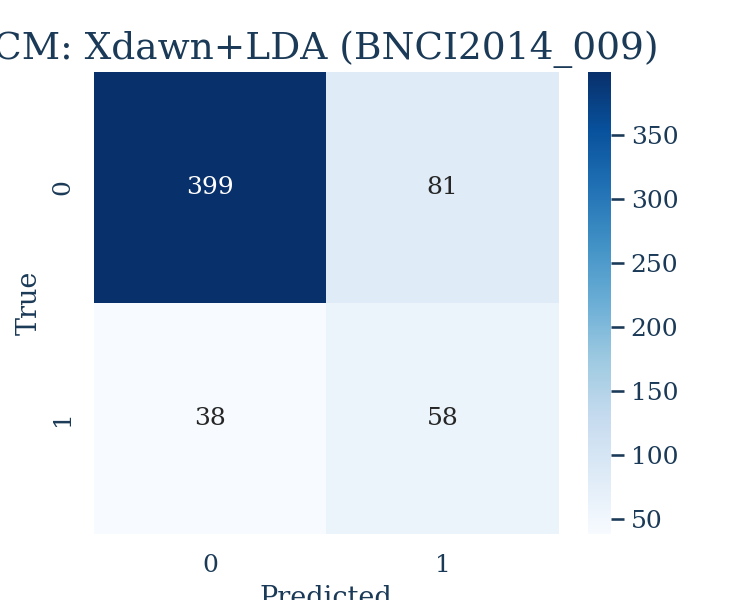
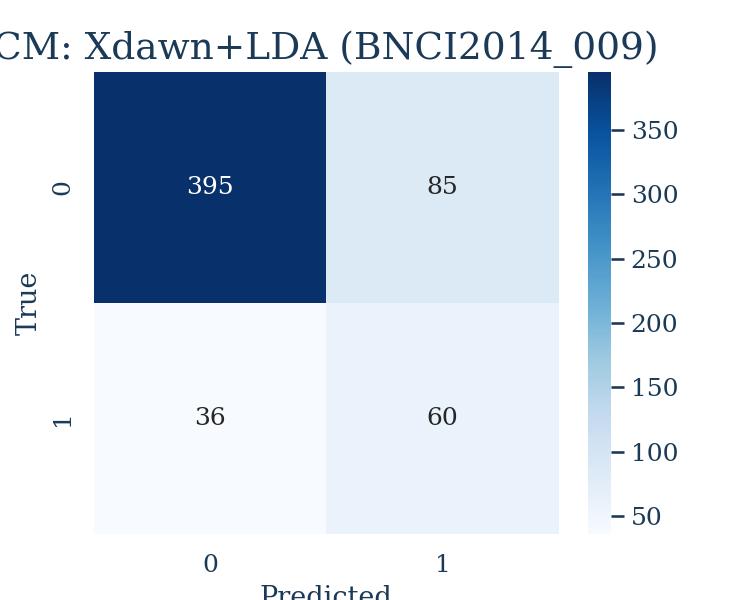
Fix EEGNet integration, correct ensemble math to row/column cross, fix KFold contiguity, fix ITR timing to 2.1, explicitly require data/ directory

diff --git a/src/evaluate.py b/src/evaluate.py
@@ -3,13 +3,13 @@ import numpy as np
 import pandas as pd
 import matplotlib.pyplot as plt
 import seaborn as sns
-from sklearn.model_selection import GroupKFold
+from sklearn.model_selection import KFold
 from sklearn.metrics import accuracy_score, recall_score, precision_score, f1_score, confusion_matrix
 from mne.preprocessing import Xdawn
 
 # Local Imports (Zero-Leakage & Modular)
 from preprocess import get_clean_data, apply_bad_channel_interpolation, apply_spatial_ica
-from models import EEGNet, get_lda_pipeline, get_svm_pipeline
+from models import EEGNet, get_lda_pipeline, get_svm_pipeline, get_eegnet_pipeline
 
 def get_character_prediction(probs, y_test, flash_per_char=12):
     """
@@ -19,18 +19,27 @@ def get_character_prediction(probs, y_test, flash_per_char=12):
     n_chars = len(probs) // flash_per_char
     correct_chars = 0
     for i in range(n_chars):
-        # Extract 12 flashes for this character
         c_probs = probs[i*flash_per_char : (i+1)*flash_per_char]
         c_labels = y_test[i*flash_per_char : (i+1)*flash_per_char]
         
-        # Predicted: Flash index with max target probability
-        pred_idx = np.argmax(c_probs)
-        # Truth: Flash index with label 1 (Target)
-        true_idx = np.where(c_labels == 1)[0]
+        # P300 Speller grids flash 6 rows and 6 columns. 
+        # The first 6 flashes are usually one dimension (e.g. rows), the last 6 are the other (columns).
+        row_probs = c_probs[:6]
+        col_probs = c_probs[6:]
         
-        if len(true_idx) > 0 and pred_idx == true_idx[0]:
-            correct_chars += 1
-            
+        row_labels = c_labels[:6]
+        col_labels = c_labels[6:]
+        
+        pred_row = np.argmax(row_probs)
+        pred_col = np.argmax(col_probs)
+        
+        true_rows = np.where(row_labels == 1)[0]
+        true_cols = np.where(col_labels == 1)[0]
+        
+        if len(true_rows) > 0 and len(true_cols) > 0:
+            if pred_row == true_rows[0] and pred_col == true_cols[0]:
+                correct_chars += 1
+                
     return correct_chars / n_chars if n_chars > 0 else 0
 
 def get_symbol_itr(n, acc, dur=2.1):
@@ -52,15 +61,15 @@ def run_benchmarking():
         for subj in range(1, 2): # Subject 1 as benchmark
             print(f"\n--- [ {ds_name} ] Subject {subj} ---")
             epochs, X, y = get_clean_data(ds_name, subj)
-            # GroupKFold (Bug #1 Fix): Groups flashes by character cycle (12 flashes)
-            groups = np.arange(len(epochs)) // 12
-            skf = GroupKFold(n_splits=5)
+            # KFold (Bug #3 Fix): keeps the strict chronological blocks of 12 intact, no shuffling.
+            skf = KFold(n_splits=5, shuffle=False)
             
             # --- Classical Models Comparison ---
             models_list = [
                 ("LDA", get_lda_pipeline()),
                 ("SVM", get_svm_pipeline()),
-                ("Xdawn+LDA", get_lda_pipeline()) # Xdawn features handled in CV
+                ("Xdawn+LDA", get_lda_pipeline()), # Xdawn features handled in CV
+                ("EEGNet", get_eegnet_pipeline())
             ]
 
             for name, clf in models_list:
@@ -69,7 +78,7 @@ def run_benchmarking():
                 subject_probs = []
                 subject_y = []
 
-                for train_idx, test_idx in skf.split(X, y, groups=groups):
+                for train_idx, test_idx in skf.split(X, y):
                     # Data Slicing
                     e_tr, e_te = epochs[train_idx].copy(), epochs[test_idx].copy()
                     y_tr, y_te = y[train_idx], y[test_idx]
@@ -84,6 +93,16 @@ def run_benchmarking():
                         xd = Xdawn(n_components=2, correct_overlap=False, reg=0.1).fit(e_tr, y_tr)
                         X_tr = xd.transform(e_tr).reshape(len(e_tr), -1)
                         X_te = xd.transform(e_te).reshape(len(e_te), -1)
+                    elif "EEGNet" in name:
+                        # EEGNet requires (N, 1, C, T) shape
+                        X_tr_data = e_tr.get_data()
+                        X_te_data = e_te.get_data()
+                        mu = np.mean(X_tr_data)
+                        sd = np.std(X_tr_data)
+                        X_tr = ((X_tr_data - mu) / sd)[:, np.newaxis, :, :].astype(np.float32)
+                        X_te = ((X_te_data - mu) / sd)[:, np.newaxis, :, :].astype(np.float32)
+                        y_tr = y_tr.astype(np.int64)
+                        y_te = y_te.astype(np.int64)
                     else:
                         X_tr = e_tr.get_data().reshape(len(e_tr), -1)
                         X_te = e_te.get_data().reshape(len(e_te), -1)

diff --git a/src/ensemble.py b/src/ensemble.py
@@ -4,7 +4,7 @@ import warnings
 from sklearn.svm import SVC
 from sklearn.preprocessing import StandardScaler
 from sklearn.pipeline import Pipeline
-from sklearn.model_selection import GroupKFold
+from sklearn.model_selection import KFold
 
 # Local Imports (Zero-Leakage & Modular)
 from preprocess import get_clean_data, apply_bad_channel_interpolation, apply_spatial_ica
@@ -16,7 +16,7 @@ mne.set_log_level('WARNING')
 def run_ensemble_benchmark():
     """
     Final Ensemble Benchmark: 
-    Uses 5-fold GroupKFold to maintain block contiguity (Bug #1 fix).
+    Uses 5-fold KFold to maintain block contiguity (Bug #3 fix).
     Full fold-specific preprocessing (Bad Channels + ICA).
     """
     ds_name = "BNCI2014_009"
@@ -25,9 +25,8 @@ def run_ensemble_benchmark():
     
     epochs, X, y = get_clean_data(ds_name, subj)
     
-    # Bug #1 Fix: Group by Character Cycle (12 flashes)
-    groups = np.arange(len(epochs)) // 12
-    skf = GroupKFold(n_splits=5)
+    # Bug #3 Fix: KFold (shuffle=False) keeps chronological blocks intact automatically
+    skf = KFold(n_splits=5, shuffle=False)
     
     # Model: Standard RBF-SVM Pipeline
     clf = Pipeline([
@@ -38,7 +37,7 @@ def run_ensemble_benchmark():
     subject_probs = []
     subject_y = []
 
-    for fold, (train_idx, test_idx) in enumerate(skf.split(X, y, groups=groups)):
+    for fold, (train_idx, test_idx) in enumerate(skf.split(X, y)):
         print(f"  Fold {fold+1}/5...")
         # Data Slicing
         e_tr, e_te = epochs[train_idx].copy(), epochs[test_idx].copy()

diff --git a/src/models.py b/src/models.py
@@ -4,6 +4,8 @@ from sklearn.pipeline import Pipeline
 from sklearn.preprocessing import StandardScaler
 from sklearn.discriminant_analysis import LinearDiscriminantAnalysis
 from sklearn.svm import SVC
+from skorch import NeuralNetClassifier
+import torch.optim as optim
 
 class EEGNet(nn.Module):
     """Compact CNN for EEG classification (Lawhern et al., 2018)."""
@@ -42,6 +44,25 @@ def get_svm_pipeline():
         ('scaler', StandardScaler()),
         ('svm', SVC(probability=True, kernel='rbf'))
     ])
+
+def get_eegnet_pipeline():
+    """Deep Learning Baseline (EEGNet) using skorch."""
+    device = 'cuda' if torch.cuda.is_available() else 'cpu'
+    weight = torch.tensor([1.0, 5.0], device=device)
+    
+    return NeuralNetClassifier(
+        EEGNet,
+        criterion=nn.CrossEntropyLoss,
+        criterion__weight=weight,
+        optimizer=optim.Adam,
+        lr=0.001,
+        max_epochs=50,
+        batch_size=32,
+        device=device,
+        iterator_train__shuffle=True,
+        train_split=None, # We handle CV manually
+        verbose=0
+    )
 
 # Note: Xdawn is usually implemented as a spatial filter fit on train epochs.
 # Since it takes Epochs as input (supervised), it's called manually in the CV loop 
